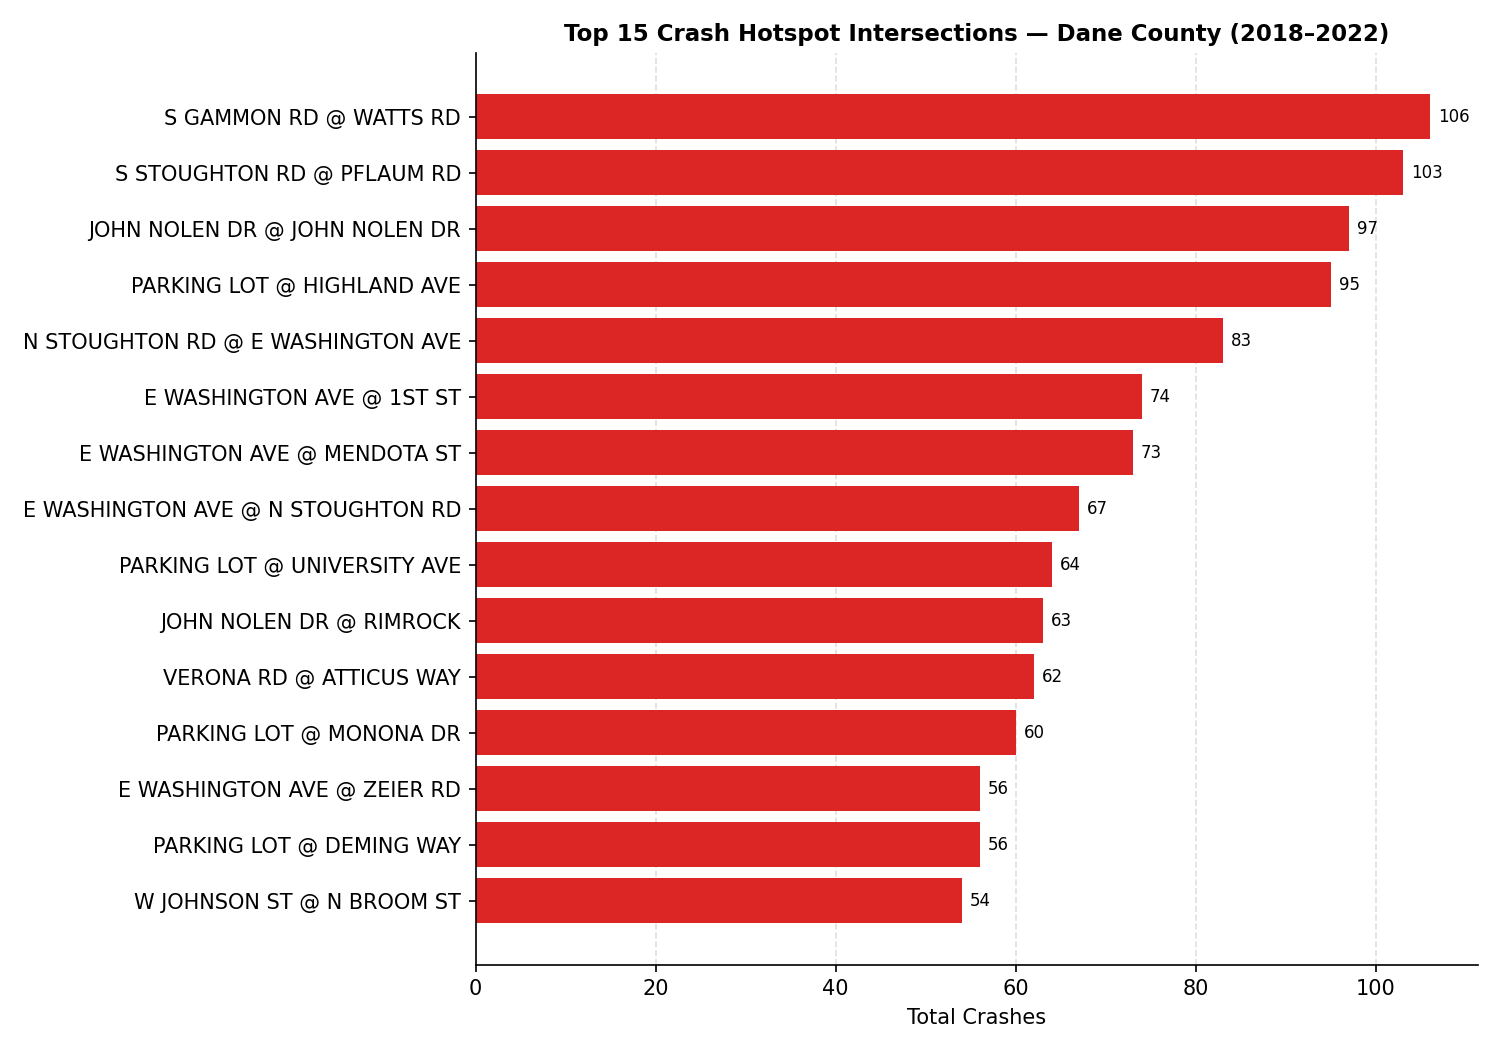
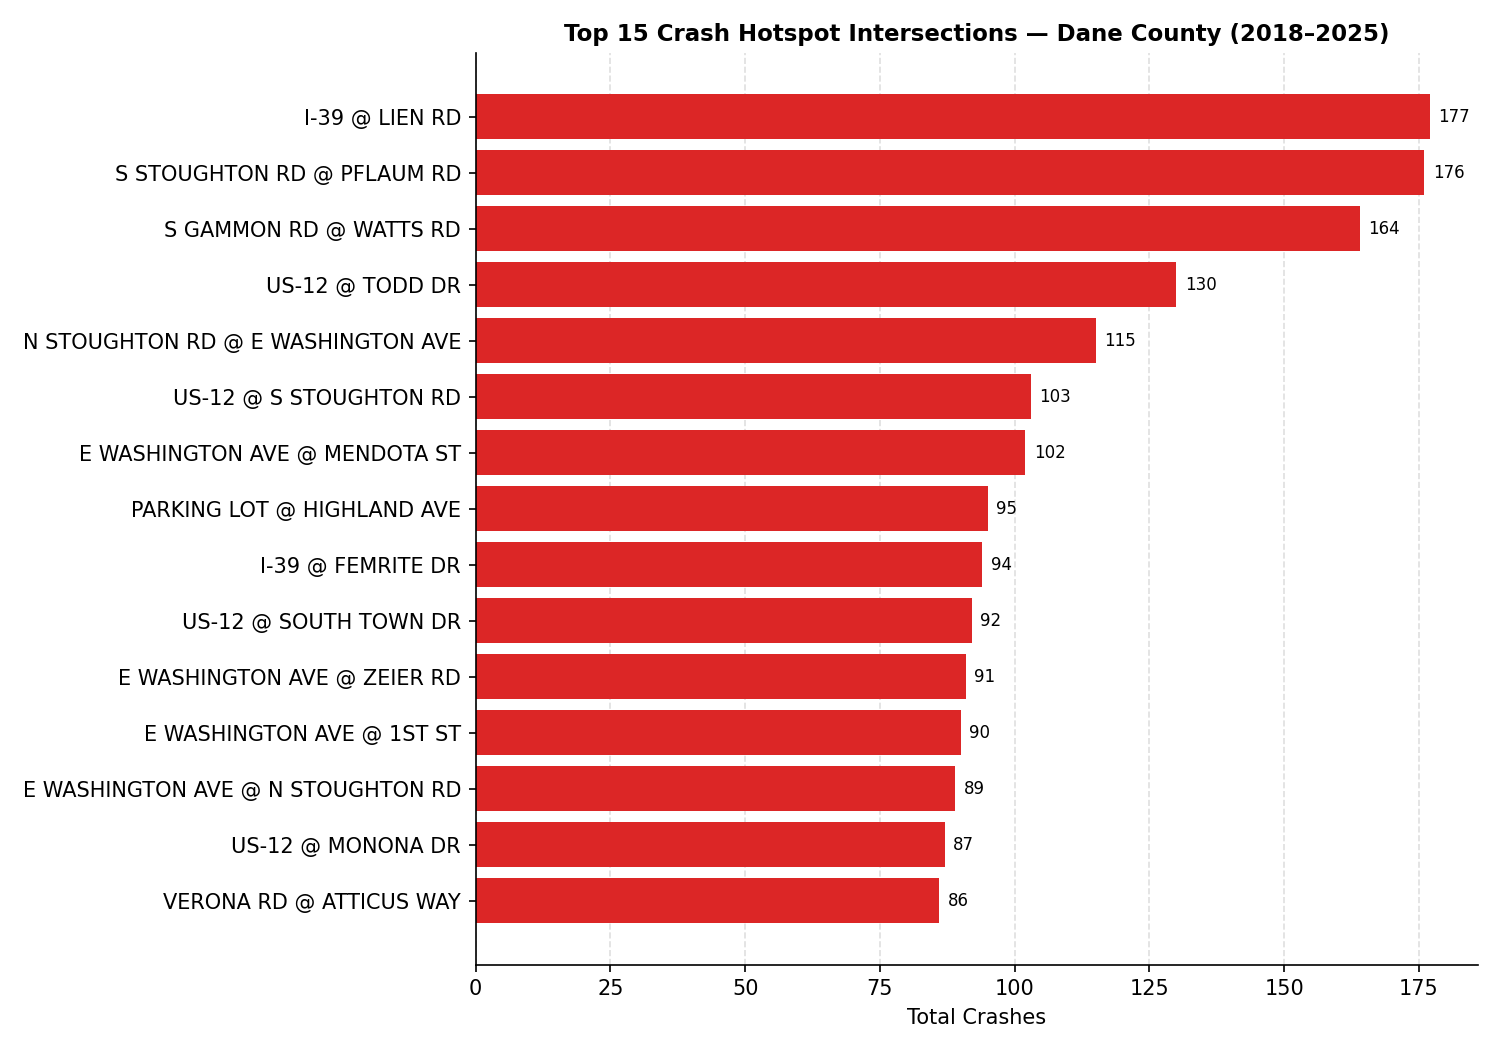
fix: filter self-intersections from hotspot chart; remove broken SF/MF chart
Self-intersections (e.g. JOHN NOLEN DR @ JOHN NOLEN DR) are data entry
artifacts where ATSTR was unpopulated — 20 roads affected, 338 total
crashes. Added on_road_name != at_road_name filter to hotspot chart,
drill-down selector, and viz script. Regenerated crashes_top_intersections.png
with 2018–2025 data. Removed permits_sf_vs_mf.png from README (units_5plus
not available in FRED for Madison MSA).

diff --git a/scripts/07_visualize_crashes.py b/scripts/07_visualize_crashes.py
@@ -149,6 +149,7 @@ def chart_top_intersections():
         FROM   crashes
         WHERE  on_road_name IS NOT NULL AND on_road_name NOT IN ('', 'NaN', 'nan')
           AND  at_road_name IS NOT NULL AND at_road_name NOT IN ('', 'NaN', 'nan')
+          AND  on_road_name != at_road_name
         GROUP  BY 1
         HAVING COUNT(*) >= 3
         ORDER  BY crashes DESC
@@ -159,7 +160,7 @@ def chart_top_intersections():
     fig, ax = plt.subplots(figsize=(10, 7))
     bars = ax.barh(df["intersection"], df["crashes"], color=RED, zorder=2)
     ax.bar_label(bars, fmt="%d", padding=4, fontsize=8)
-    ax.set_title("Top 15 Crash Hotspot Intersections — Dane County (2018–2022)",
+    ax.set_title("Top 15 Crash Hotspot Intersections — Dane County (2018–2025)",
                  fontsize=11, fontweight="bold")
     ax.set_xlabel("Total Crashes")
     ax.grid(axis="x", linestyle="--", alpha=0.4, zorder=1)

diff --git a/app.py b/app.py
@@ -300,6 +300,7 @@ with tab_crashes:
         FROM   crashes
         WHERE  on_road_name NOT IN ('', 'NaN', 'nan')
           AND  at_road_name NOT IN ('', 'NaN', 'nan')
+          AND  on_road_name != at_road_name
         GROUP  BY 1
         HAVING COUNT(*) >= {min_crashes}
         ORDER  BY severity_score DESC
@@ -340,6 +341,7 @@ with tab_crashes:
         FROM   crashes
         WHERE  on_road_name NOT IN ('', 'NaN', 'nan')
           AND  at_road_name NOT IN ('', 'NaN', 'nan')
+          AND  on_road_name != at_road_name
         GROUP  BY 1
         HAVING COUNT(*) >= 10
         ORDER  BY severity_score DESC

diff --git a/README.md b/README.md
@@ -78,8 +78,6 @@ Across 73,691 Dane County crashes (2018–2025), **S Stoughton Rd @ Pflaum Rd** 
 
 ![Annual permit trend](charts/permits_annual_trend.png)
 
-![SF vs multifamily split](charts/permits_sf_vs_mf.png)
-
 ![Top growing areas](charts/permits_top_tracts.png)
 
 ![Top crash hotspots](charts/crashes_top_intersections.png)